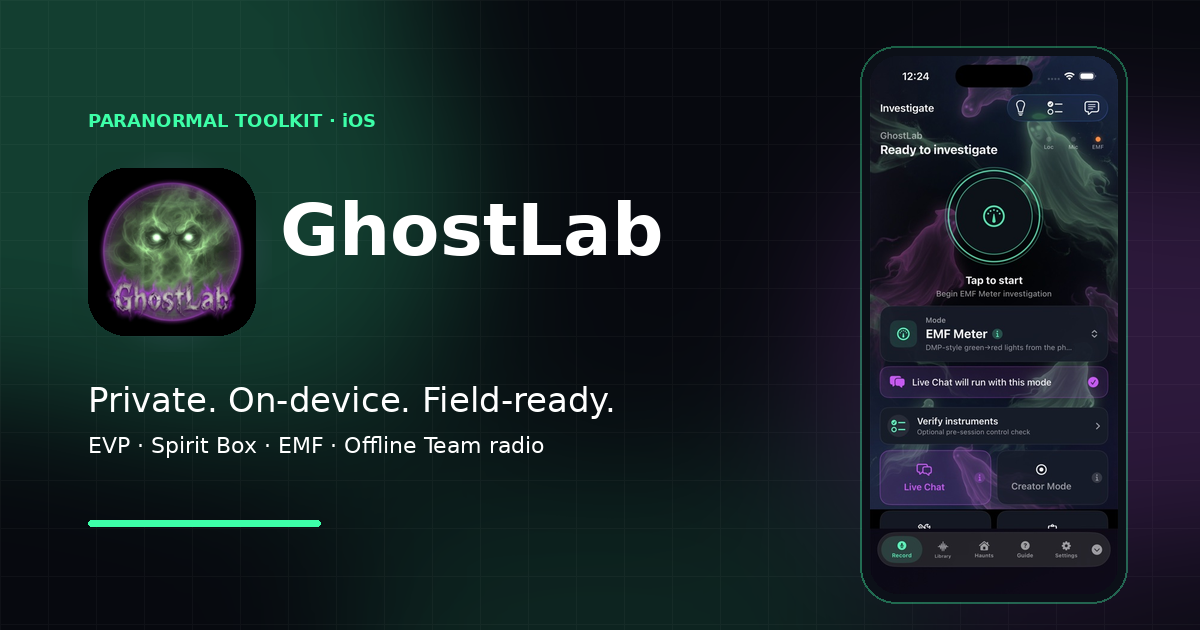
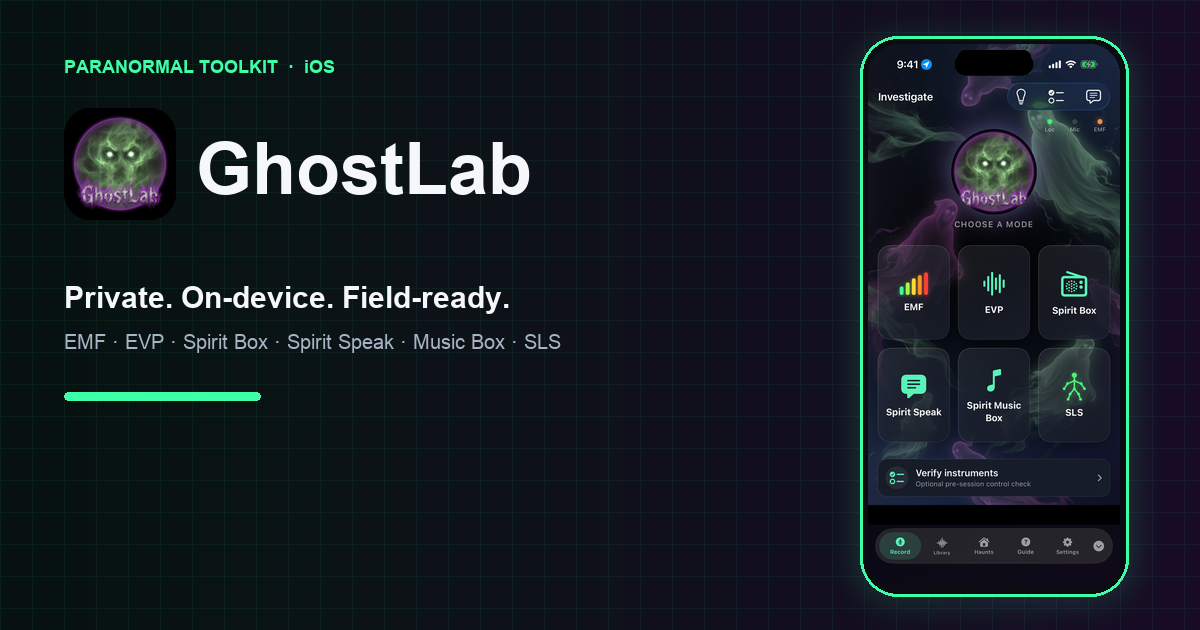
Replace marketing photos with GhostLab 205 six-tile home
Investigate home is now the real 1.5 (205) simulator shot: floating
logo, six tiles with EMF LED bars and a jointed SLS figure, and
Verify under the grid. Drop the August 7 start-ring home-tools and
home-scrolled frames. Hero and gallery use the new shots only.

diff --git a/gallery.html b/gallery.html
@@ -4,7 +4,7 @@
   <meta charset="utf-8" />
   <meta name="viewport" content="width=device-width, initial-scale=1, viewport-fit=cover" />
   <title>Gallery - GhostLab</title>
-  <meta name="description" content="GhostLab app screenshots: Investigate home, tools sheet, instrument verification, Creator Mode." />
+  <meta name="description" content="GhostLab app screenshots: six-tile Investigate home, mode second screen, Tools sheet, Verify instruments, Creator Mode." />
   <meta name="theme-color" content="#07090f" />
   <meta name="color-scheme" content="dark" />
   <link rel="icon" type="image/png" href="assets/favicon.png" />
@@ -12,7 +12,7 @@
   <link rel="preconnect" href="https://fonts.googleapis.com" />
   <link rel="preconnect" href="https://fonts.gstatic.com" crossorigin />
   <link href="https://fonts.googleapis.com/css2?family=Inter:wght@400;500;600;700;800&family=JetBrains+Mono:wght@500;700&display=swap" rel="stylesheet" />
-  <link rel="stylesheet" href="styles.css?v=20260812-backdrop" />
+  <link rel="stylesheet" href="styles.css?v=20260817-six-tile" />
 </head>
 <body>
   <div class="ambient" aria-hidden="true">
@@ -49,7 +49,7 @@
       <header class="page-hero reveal">
         <div class="crumb"><a href="index.html">Home</a> <span>/</span> Gallery</div>
         <h1>Dark UI. Spectral accents. Built for low light.</h1>
-        <p class="lede">Screenshots from the current GhostLab iOS build - Investigate, Tools, Verify instruments, and more.</p>
+        <p class="lede">Screenshots from the current GhostLab iOS build. Investigate opens on six tiles. Verify sits under the grid.</p>
       </header>
 
       <section class="section section-sm" id="gallery">
@@ -60,24 +60,20 @@
         </div>
         <div class="gallery">
           <figure class="reveal">
-            <img src="assets/home.jpg" alt="Investigate home" loading="lazy" />
-            <figcaption>Investigate home</figcaption>
+            <img src="assets/home.jpg?v=205" alt="Investigate home: floating GhostLab logo, six tiles, EMF LED bars, jointed SLS figure, Verify under the grid" loading="lazy" />
+            <figcaption>Investigate home · six tiles · Verify under the grid</figcaption>
           </figure>
           <figure class="reveal">
-            <img src="assets/home-tools.jpg" alt="Tools and Details on home" loading="lazy" />
-            <figcaption>Tools · Details · Live Chat</figcaption>
+            <img src="assets/mode-setup.jpg?v=205" alt="Spirit Box second screen with the start ring, Classic Scan, and Live Radio" loading="lazy" />
+            <figcaption>Spirit Box · tap a tile for the start ring</figcaption>
           </figure>
           <figure class="reveal">
-            <img src="assets/tools.jpg" alt="Tools sheet with Team" loading="lazy" />
-            <figcaption>Tools · Team · Music Box</figcaption>
+            <img src="assets/tools.jpg?v=205" alt="Tools sheet with Torch, Knock, Team, Verify, and Details" loading="lazy" />
+            <figcaption>Tools sheet · Torch · Knock · Team · Verify · Details</figcaption>
           </figure>
           <figure class="reveal">
-            <img src="assets/verify.jpg" alt="Verify instruments" loading="lazy" />
+            <img src="assets/verify.jpg?v=205" alt="Verify instruments control check under the six-tile grid" loading="lazy" />
             <figcaption>Verify instruments</figcaption>
-          </figure>
-          <figure class="reveal">
-            <img src="assets/home-scrolled.jpg" alt="Scrolled investigate home" loading="lazy" />
-            <figcaption>Mode · Live Chat overlay</figcaption>
           </figure>
           <figure class="reveal">
             <img src="assets/creator-info.jpg" alt="Creator Mode Pro info" loading="lazy" />

diff --git a/index.html b/index.html
@@ -117,12 +117,12 @@
           <div class="phone phone-float-a">
             <div class="phone-notch" aria-hidden="true"></div>
             <div class="phone-screen">
-              <img src="assets/home.jpg" alt="GhostLab Investigate home with mode tiles and Verify instruments" width="580" height="1260" />
+              <img src="assets/home.jpg?v=205" alt="GhostLab Investigate home: floating logo, six tiles with EMF LED bars and a jointed SLS figure, and Verify under the grid" width="414" height="900" />
             </div>
           </div>
           <div class="phone phone-float-b" aria-hidden="true">
             <div class="phone-screen">
-              <img src="assets/home-tools.jpg" alt="GhostLab home with Tools and Details" width="440" height="950" />
+              <img src="assets/mode-setup.jpg?v=205" alt="GhostLab Spirit Box second screen with the start ring after you tap a tile" width="414" height="900" />
             </div>
           </div>
           <div class="ptt-fab-demo" aria-hidden="true">
@@ -228,7 +228,7 @@
           <a class="explore-card reveal" href="gallery.html">
             <span class="kicker">Gallery</span>
             <h3>See the dark UI</h3>
-            <p>Current iOS screenshots - Investigate home, Tools sheet, Verify instruments.</p>
+            <p>Current iOS screenshots: six-tile Investigate home, a mode second screen, Tools sheet, Verify.</p>
             <span class="go">View gallery →</span>
           </a>
           <a class="explore-card reveal" href="privacy.html">

diff --git a/tools.html b/tools.html
@@ -107,7 +107,7 @@
 
         <div class="showcase reveal">
           <div class="shot-frame">
-            <img src="assets/tools.jpg" alt="GhostLab field tools including Torch, Knock, Team, and Music Box" width="414" height="900" loading="lazy" />
+            <img src="assets/tools.jpg?v=205" alt="GhostLab Tools sheet with Torch, Knock, Team, Verify, and Details" width="414" height="900" loading="lazy" />
           </div>
           <div class="showcase-copy">
             <h2>Arm free tools first. Pro chips show PRO.</h2>
@@ -123,7 +123,7 @@
 
         <div class="showcase reverse reveal">
           <div class="shot-frame">
-            <img src="assets/verify.jpg" alt="GhostLab Verify instruments control check before investigating" width="414" height="900" loading="lazy" />
+            <img src="assets/verify.jpg?v=205" alt="GhostLab Verify instruments control check before investigating" width="414" height="900" loading="lazy" />
           </div>
           <div class="showcase-copy">
             <h2>Verify instruments before you walk in.</h2>
